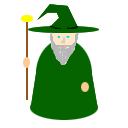
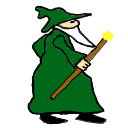
Final upload, unfinished but dissertation ready.

diff --git a/Slick2d Config project/src/States/Play.java b/Slick2d Config project/src/States/Play.java
@@ -51,6 +51,8 @@ public class Play extends BasicGameState {
 	Image knightLeft = null;
 	Image knightUp = null;
 	Image knightDown = null;
+	
+	Image instructions = null;
 
 	boolean Enemy1Alive = true;
 	boolean hero1Xrange = false;
@@ -76,7 +78,7 @@ public class Play extends BasicGameState {
 
 		castle = new Image("res/newCastle.png");
 		grass = new Image("res/GrassPic.png");
-		heroFacingRight = new Image("res/knight/Right.png");
+		heroFacingRight = new Image("res/HeroImage.png");
 		Enemy1 = new Image("res/Enemy1.png");
 		UI = new Image("res/UI.png");
 
@@ -91,13 +93,15 @@ public class Play extends BasicGameState {
 		knightLeft = new Image("res/knight/Left.png");
 		knightUp = new Image("res/knight/Up.png");
 		knightDown = new Image("res/knight/Down.png");
+		
+		instructions = new Image("res/Instructions.png");
 
 	}
 
 	public void render(GameContainer gc, StateBasedGame sbg, Graphics g) throws SlickException{
 
 		if(gameStart == false){
-			g.drawString("Instructions will go here, but for now...", 330, 280);
+			g.drawImage(instructions, 0, 0);
 		g.drawString("Press the spacebar to begin!", 350, 300);
 		
 		Input Input = gc.getInput();
@@ -153,7 +157,7 @@ public class Play extends BasicGameState {
 		
 		
 		//Add wizard every 5 seconds
-		if(elapsed % 10 >= 0 && elapsed % 12 < 1 && alliesCreated < 5){
+		if(elapsed % 10 >= 0 && elapsed % 12 < 1 && alliesCreated < 2){
 			System.out.println("add wizard");
     		Wizard wizard = new Wizard();
     		wizard.setImage(wizardDown);
@@ -163,7 +167,7 @@ public class Play extends BasicGameState {
 		}
 		
 		//Add knight every 5 seconds
-		if(elapsed % 7 >= 0 && elapsed % 7 < 1 && alliesCreated < 5){
+		if(elapsed % 7 >= 0 && elapsed % 7 < 1 && alliesCreated < 1){
 			System.out.println("add wizard");
     		Knight knight = new Knight();
     		knight.setImage(knightDown);

diff --git a/Slick2d Config project/src/States/Game.java b/Slick2d Config project/src/States/Game.java
@@ -4,7 +4,7 @@ import org.newdawn.slick.state.*;
 
 public class Game extends StateBasedGame{
 
-	public static final String gamename = "Raid Manager";//Game name
+	public static final String gamename = "Man-Up";//Game name
 	public static final int screenWidth = 1024;
 	public static final int screenHeight = 768;
 	
